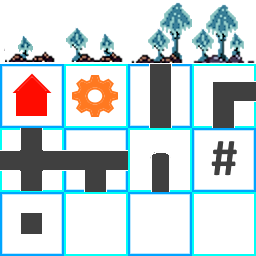
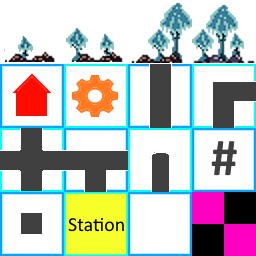
Rendering for all Surface types

Changed region(s): [[0.75, 0.75, 1.0, 1.0], [0.25, 0.75, 0.5, 1.0]]

diff --git a/VolcanicTransport/VolcanicTransport-WPF/View/TextureAtlas.cs b/VolcanicTransport/VolcanicTransport-WPF/View/TextureAtlas.cs
@@ -1,5 +1,4 @@
-using System.ComponentModel.DataAnnotations;
-using System.Windows;
+using System.Windows;
 using System.Windows.Media;
 using System.Windows.Media.Imaging;
 using VolcanicTransport.Model.World;
@@ -8,28 +7,35 @@ namespace VolcanicTransport_WPF.View
 {
     public static class TextureAtlas
     {
+        public class TextureAtlasNotInitialisedException : Exception { }
+
         public static ImageSource[] MushroomTextures { get; private set; } = new ImageSource[5];
 
-        public static ImageSource? CityBuildingTexture { get; private set; }
-        public static ImageSource? FactoryBuildingTexture { get; private set; }
-
-     
-        public readonly struct ImageAndRotation
+        private static ImageSource? cityBuildingTexture;
+        public static ImageSource CityBuildingTexture
         {
-            public ImageSource ImageSource { get; }
-            public int AngleDegrees { get; }
-
-            public ImageAndRotation(ImageSource src, int deg) : this()
-            {
-                ImageSource = src;
-                AngleDegrees = deg;
-            }
+            get => cityBuildingTexture ?? throw new TextureAtlasNotInitialisedException();
         }
 
-        public static Dictionary<RoadType, ImageAndRotation> RoadTextures { get; private set; } = [];
+        private static ImageSource? factoryBuildingTexture;
+        public static ImageSource FactoryBuildingTexture
+        {
+            get => factoryBuildingTexture ?? throw new TextureAtlasNotInitialisedException();
+        }
 
+        private static ImageSource? stationTexture;
+        public static ImageSource StationTexture
+        {
+            get => stationTexture ?? throw new TextureAtlasNotInitialisedException();
+        }
 
-        //public static Dictionary<RoadType, ImageSource> RoadTextures { get; private set; } = [];
+        private static ImageSource? invalidTexture;
+        public static ImageSource InvalidTexture
+        {
+            get => invalidTexture ?? throw new TextureAtlasNotInitialisedException();
+        }
+
+        public static Dictionary<RoadType, ImageWithRotation> RoadTextures { get; private set; } = [];
 
         private static bool _isLoaded = false;
 
@@ -46,8 +52,8 @@ namespace VolcanicTransport_WPF.View
                 GetTile(atlas, 0, 3)
                 ];
 
-            CityBuildingTexture = GetTile(atlas, 1, 0);
-            FactoryBuildingTexture = GetTile(atlas, 1, 1);
+            cityBuildingTexture = GetTile(atlas, 1, 0);
+            factoryBuildingTexture = GetTile(atlas, 1, 1);
 
             var straight = GetTile(atlas, 1, 2);
             var curved = GetTile(atlas, 1, 3);
@@ -57,32 +63,35 @@ namespace VolcanicTransport_WPF.View
             var lonely = GetTile(atlas, 3, 0);
             var invalid = GetTile(atlas, 2, 3);
 
-            RoadTextures[RoadType.STRAIGHT_NS] = new ImageAndRotation(straight, 0);
-            RoadTextures[RoadType.STRAIGHT_EW] = new ImageAndRotation(straight, 90);
+            RoadTextures[RoadType.STRAIGHT_NS] = new ImageWithRotation(straight, 0);
+            RoadTextures[RoadType.STRAIGHT_EW] = new ImageWithRotation(straight, 90);
 
-            RoadTextures[RoadType.SLOPE_NS] = new ImageAndRotation(straight, 0);
-            RoadTextures[RoadType.SLOPE_EW] = new ImageAndRotation(straight, 90);
+            RoadTextures[RoadType.SLOPE_NS] = new ImageWithRotation(straight, 0);
+            RoadTextures[RoadType.SLOPE_EW] = new ImageWithRotation(straight, 90);
 
-            RoadTextures[RoadType.CURVED_ES] = new ImageAndRotation(curved, 0);
-            RoadTextures[RoadType.CURVED_SW] = new ImageAndRotation(curved, 90);
-            RoadTextures[RoadType.CURVED_WN] = new ImageAndRotation(curved, 180);
-            RoadTextures[RoadType.CURVED_NE] = new ImageAndRotation(curved, 270);
+            RoadTextures[RoadType.CURVED_ES] = new ImageWithRotation(curved, 0);
+            RoadTextures[RoadType.CURVED_SW] = new ImageWithRotation(curved, 90);
+            RoadTextures[RoadType.CURVED_WN] = new ImageWithRotation(curved, 180);
+            RoadTextures[RoadType.CURVED_NE] = new ImageWithRotation(curved, 270);
 
-            RoadTextures[RoadType.JUNCTION_T_ESW] = new ImageAndRotation(tjunction, 0);
-            RoadTextures[RoadType.JUNCTION_T_SWN] = new ImageAndRotation(tjunction, 90);
-            RoadTextures[RoadType.JUNCTION_T_WNE] = new ImageAndRotation(tjunction, 180);
-            RoadTextures[RoadType.JUNCTION_T_NES] = new ImageAndRotation(tjunction, 270);
+            RoadTextures[RoadType.JUNCTION_T_ESW] = new ImageWithRotation(tjunction, 0);
+            RoadTextures[RoadType.JUNCTION_T_SWN] = new ImageWithRotation(tjunction, 90);
+            RoadTextures[RoadType.JUNCTION_T_WNE] = new ImageWithRotation(tjunction, 180);
+            RoadTextures[RoadType.JUNCTION_T_NES] = new ImageWithRotation(tjunction, 270);
 
-            RoadTextures[RoadType.JUNCTION_NESW] = new ImageAndRotation(xjunction, 0);
+            RoadTextures[RoadType.JUNCTION_NESW] = new ImageWithRotation(xjunction, 0);
 
-            RoadTextures[RoadType.SOUTH] = new ImageAndRotation(end, 0);
-            RoadTextures[RoadType.WEST] = new ImageAndRotation(end, 90);
-            RoadTextures[RoadType.NORTH] = new ImageAndRotation(end, 180);
-            RoadTextures[RoadType.EAST] = new ImageAndRotation(end, 270);
+            RoadTextures[RoadType.SOUTH] = new ImageWithRotation(end, 0);
+            RoadTextures[RoadType.WEST] = new ImageWithRotation(end, 90);
+            RoadTextures[RoadType.NORTH] = new ImageWithRotation(end, 180);
+            RoadTextures[RoadType.EAST] = new ImageWithRotation(end, 270);
 
-            RoadTextures[RoadType.LONELY] = new ImageAndRotation(lonely, 0);
+            RoadTextures[RoadType.LONELY] = new ImageWithRotation(lonely, 0);
 
-            RoadTextures[RoadType.INVALID] = new ImageAndRotation(invalid, 0);
+            RoadTextures[RoadType.INVALID] = new ImageWithRotation(invalid, 0);
+
+            stationTexture = GetTile(atlas, 3, 1);
+            invalidTexture = GetTile(atlas, 3, 3);
 
             _isLoaded = true;
         }

diff --git a/VolcanicTransport/VolcanicTransport-WPF/View/VisualChunk.cs b/VolcanicTransport/VolcanicTransport-WPF/View/VisualChunk.cs
@@ -2,18 +2,25 @@
 using System.Windows.Media;
 using System.Windows.Media.Imaging;
 using VolcanicTransport.Model.World;
+using VolcanicTransport.Model.World.Economy;
 
 namespace VolcanicTransport_WPF.View
 {
     public class VisualChunk : FrameworkElement
     {
+
+        private static readonly int Dpi = 96;
+        private static readonly int FieldSize = Field.FieldSize;
+        private static readonly int HalfFieldSize = FieldSize / 2;
+        private static readonly int ChunkSizeInFields = Chunk.ChunkSize * FieldSize;
+        private static readonly Rect ChunkBoundries = new(0, 0, ChunkSizeInFields, ChunkSizeInFields);
+
         private readonly DrawingVisual _visual;
 
         public VisualChunk()
         {
             _visual = new DrawingVisual();
             AddVisualChild(_visual);
-            //CacheMode = new BitmapCache();
 
             RenderOptions.SetBitmapScalingMode(this, BitmapScalingMode.NearestNeighbor);
             RenderOptions.SetEdgeMode(this, EdgeMode.Aliased);
@@ -21,17 +28,16 @@ namespace VolcanicTransport_WPF.View
             DataContextChanged += (s, e) =>
             {
                 if (DataContext is Chunk chunkData)
-                {
                     PreRender(chunkData);
-                }
             };
         }
 
         public void PreRender(Chunk chunkData)
         {
-            int size = Chunk.ChunkSize * Field.FieldSize;
 
-            RenderTargetBitmap bakedMap = new(size, size, 96, 96, PixelFormats.Pbgra32);
+            RenderTargetBitmap bakedMap = new(
+                ChunkSizeInFields, ChunkSizeInFields, Dpi, Dpi, PixelFormats.Pbgra32
+            );
 
             DrawingVisual dv = new();
             using (DrawingContext dc = dv.RenderOpen())
@@ -40,39 +46,31 @@ namespace VolcanicTransport_WPF.View
                 {
                     // Draw the tile based on FieldType
                     Brush brush = FieldBrushProvider.GetBrush(f.Type);
-                    double fieldX = x * Field.FieldSize;
-                    double fieldY = y * Field.FieldSize;
+                    double fieldX = x * FieldSize;
+                    double fieldY = y * FieldSize;
 
-                    dc.DrawRectangle(brush, null, new Rect(fieldX, fieldY, Field.FieldSize, Field.FieldSize));
+                    Rect rectangle = new(fieldX, fieldY, FieldSize, FieldSize);
 
-                    // Render Surface (Roads, Bridges, Mushrooms)
+                    dc.DrawRectangle(brush, null, rectangle);
+
+                    // Draw Surface
                     if (f.Surface != null)
                     {
-                        ImageSource image = TextureAtlas.RoadTextures[RoadType.INVALID].ImageSource;
-                        int rotation = 0;
-
-
-                        if (f.Surface is Mushroom m)
+                        ImageWithRotation imageWithRotation = f.Surface switch
                         {
-                            image = TextureAtlas.MushroomTextures[(int)m.GrowthStage];
-                        }
-                        else if (f.Surface is Road r)
-                        {
-                            var data = TextureAtlas.RoadTextures[r.RoadType];
+                            Mushroom m => RenderMushroom(m),
+                            Road r => RenderRoad(r),
+                            Station s => RenderStation(),
+                            FactoryBuilding => RenderFactoryBuilding(),
+                            CityBuilding => RenderCityBuilding(),
+                            _ => RenderInvalid()
+                        };
 
-                            image = data.ImageSource;
-                            rotation = data.AngleDegrees;
-                        }
+                        double centerX = fieldX + HalfFieldSize;
+                        double centerY = fieldY + HalfFieldSize;
 
-                        double centerX = fieldX + Field.FieldSize * 0.5;
-                        double centerY = fieldY + Field.FieldSize * 0.5;
-
-                        dc.PushTransform(new RotateTransform(rotation, centerX, centerY));
-
-                        dc.DrawImage(
-                                image,
-                                new Rect(fieldX, fieldY, Field.FieldSize, Field.FieldSize));
-
+                        dc.PushTransform(new RotateTransform(imageWithRotation.AngleDegrees, centerX, centerY));
+                        dc.DrawImage(imageWithRotation.ImageSource, rectangle);
                         dc.Pop();
                     }
                 });
@@ -81,10 +79,23 @@ namespace VolcanicTransport_WPF.View
             bakedMap.Render(dv);
             bakedMap.Freeze();
 
+            // Draw the baked chunk to _visual
             using DrawingContext dc2 = _visual.RenderOpen();
-            dc2.DrawImage(bakedMap, new Rect(0, 0, size, size));
-
+            dc2.DrawImage(bakedMap, ChunkBoundries);
         }
+
+        private ImageWithRotation RenderInvalid()
+            => new(TextureAtlas.InvalidTexture, 0);
+        private ImageWithRotation RenderMushroom(Mushroom m)
+            => new(TextureAtlas.MushroomTextures[(int)m.GrowthStage], 0);
+        private ImageWithRotation RenderRoad(Road r)
+            => TextureAtlas.RoadTextures[r.RoadType];
+        private ImageWithRotation RenderCityBuilding()
+            => new(TextureAtlas.CityBuildingTexture, 0);
+        private ImageWithRotation RenderFactoryBuilding()
+            => new(TextureAtlas.FactoryBuildingTexture, 0);
+        private ImageWithRotation RenderStation()
+            => new(TextureAtlas.FactoryBuildingTexture, 0);
 
         protected override int VisualChildrenCount => 1;
         protected override Visual GetVisualChild(int index) => _visual;

diff --git a/VolcanicTransport/VolcanicTransport-WPF/ViewModel/GameViewModel.cs b/VolcanicTransport/VolcanicTransport-WPF/ViewModel/GameViewModel.cs
@@ -127,13 +127,6 @@ namespace VolcanicTransport_WPF.ViewModel
 
         public void Initialise()
         {
-            // VisualChunk/ CacheMode = new BitmapCache(); sor engedélyezése csak saját felelősségre!
-            // Kikapcsolva nem zabálja meg a memóriát, cserébe kizoomolva durván laggol
-            // 
-            //GameModel.Initialise(1); // 48 MB
-            //GameModel.Initialise(10); // 474 MB
-            //GameModel.Initialise(20); // 1781 MB
-            //GameModel.Initialise(40); // ~ 8 GB // itt lenne szép a generálás :(
             GameModel.Initialise(8);
         }
 

diff --git a/VolcanicTransport/VolcanicTransport-WPF/View/ImageWithRotation.cs b/VolcanicTransport/VolcanicTransport-WPF/View/ImageWithRotation.cs
@@ -1,0 +1,16 @@
+using System.Windows.Media;
+
+namespace VolcanicTransport_WPF.View
+{
+    public readonly struct ImageWithRotation
+    {
+        public ImageSource ImageSource { get; }
+        public int AngleDegrees { get; }
+
+        public ImageWithRotation(ImageSource src, int deg) : this()
+        {
+            ImageSource = src;
+            AngleDegrees = deg;
+        }
+    }
+}
